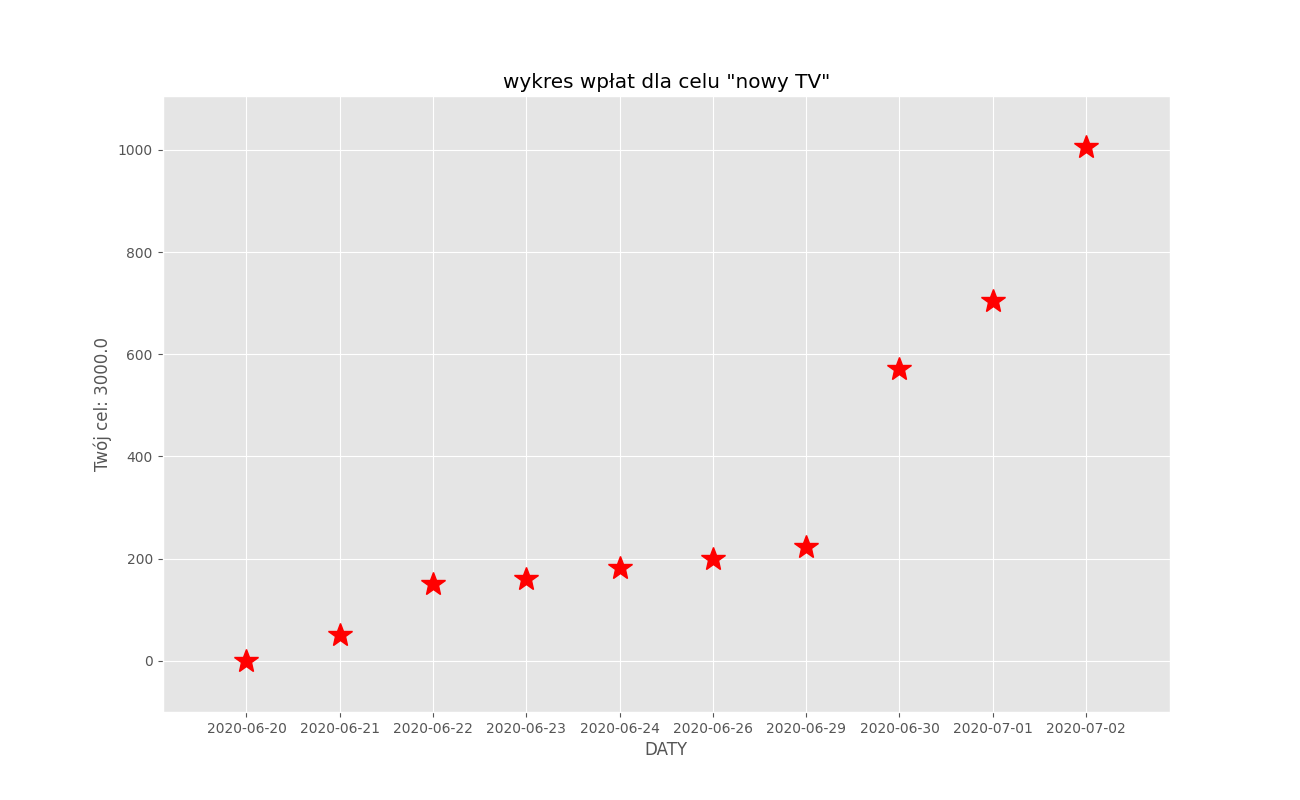
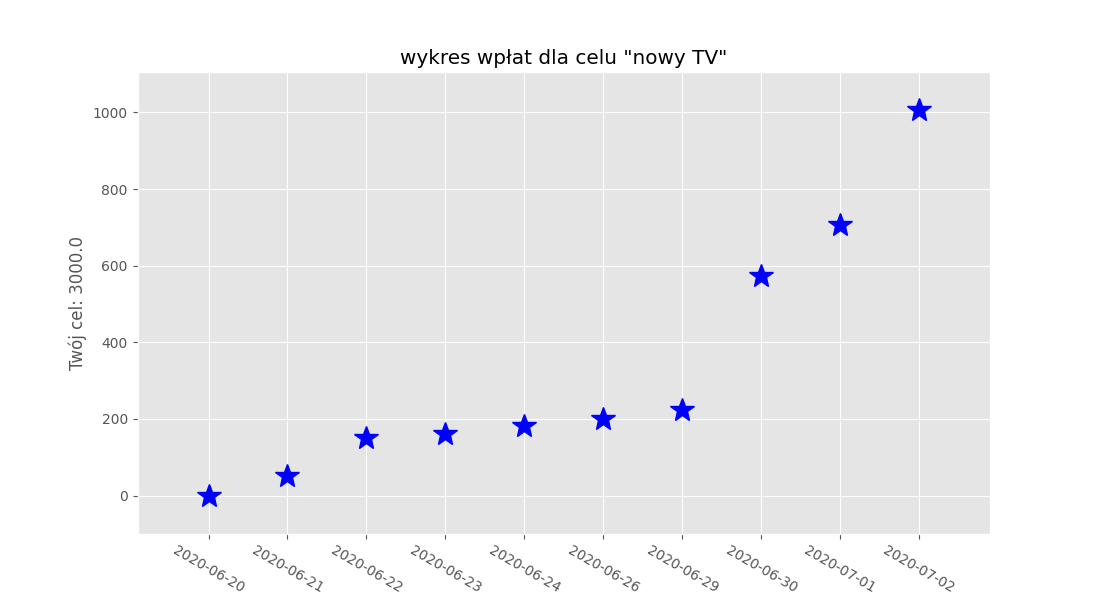
charts

diff --git a/budget_app/templates/charts.html b/budget_app/templates/charts.html
@@ -1,15 +1,24 @@
 {% extends "base.html" %}
-
+{% load static %}
 {% block content %}
+    <br>
+    Wykresy dla dotychczasowych celów:
     <br><br>
-    Wykresy dla dotychczasowych celów: <br><br>
-    <ol>
-        <li><a href="{% url 'chart1' %}">{{ chart_name1 }}</a></li><br>
-        <li><a href="{% url 'chart2' %}">{{ chart_name2 }}</a></li><br>
-        <li><a href="{% url 'chart3' %}">{{ chart_name3 }}</a></li><br>
-        <li><a href="{% url 'chart4' %}">{{ chart_name4 }}</a></li><br>
-        <li><a href="{% url 'chart5' %}">{{ chart_name5 }}</a></li><br>
-        <li><a href="{% url 'chart6' %}">{{ chart_name6 }}</a></li><br>
-        <li><a href="{% url 'chart7' %}">Dotychczasowe cele - wykres wspólny</a></li><br>
-    </ol>
+        <img src="{% static 'wykres-innego-typu.png' %}" alt="Not found" ><br>
+        <br>
+    <img src="{% static 'wykres-inny8.png' %}" alt="Not found" ><br>
+    <br>
+        <img src="{% static 'wykres-inny9.png' %}" alt="Not found" ><br>
+    <br>
+    <img src="{% static 'wykres-inny10.png' %}" alt="Not found" ><br>
+    <br>
+        <img src="{% static 'wykres-inny15.png' %}" alt="Not found" ><br>
+    <br>
+    <img src="{% static 'wykres-inny16.png' %}" alt="Not found" ><br>
+    <br>
+        <img src="{% static 'wykres-inny24.png' %}" alt="Not found" ><br>
+    <br>
+
+
+
 {% endblock %}

diff --git a/budget_app/templates/stock.html b/budget_app/templates/stock.html
@@ -41,11 +41,6 @@
     Twoje <span class="underline">aktualne</span> akcje PZU: {% if value_of_pzu %}{{ value_of_pzu }}
                                 {% else %}Odśwież stronę{% endif %}<br>
     <br>
-     <span class="underline">Obecna</span> cena za akcję BDX: {% if bdx_kurs2 %}{{ bdx_kurs2 }}
-                                {% else %}Odśwież stronę{% endif %}<br>
-    Twoje <span class="underline">aktualne</span> akcje BDX: {% if value_of_bdx %}{{ value_of_bdx }}
-                                {% else %}Odśwież stronę{% endif %}<br>
-    <br>
 
     Szczegóły dotyczące firm -><br>
     {% for elem in ctx %}

diff --git a/budget_app/views.py b/budget_app/views.py
@@ -49,14 +49,15 @@ def wykres8():
         new_date = str(el.date_of)
         x.append(new_date)
     plt.figure(2)
-    plt.figure(figsize=(12, 7))
+    plt.figure(figsize=(11, 6))
     plt.style.use('ggplot')
     plt.title(f'wykres wpłat dla celu "{obj_name}"')
     plt.xlabel('DATY')
     plt.ylabel(f'Twój cel: {max_y}')
     plt.grid(True)
     plt.margins(0.1)
-    plt.plot(x, y, 'r*', markersize=18) # gwiazdka
+    plt.tick_params(axis='x', rotation=330)
+    plt.plot(x, y, 'b*', markersize=18) # gwiazdka
     savefig('static/wykres-inny8.png')
 
 
@@ -73,7 +74,7 @@ def wykres9():
         new_date = str(el.date_of)
         x9.append(new_date)
     plt.figure(3)
-    plt.figure(figsize=(12, 7))
+    plt.figure(figsize=(11, 6))
     plt.title(f'wykres wpłat dla celu "{obj9_name}"')
     plt.xlabel('DATY')
     plt.ylabel(f'Twój cel: {max_y9}')
@@ -95,13 +96,13 @@ def wykres10():
         new_date = str(el.date_of)
         x10.append(new_date)
     plt.figure(4)
-    plt.figure(figsize=(12, 7))
+    plt.figure(figsize=(11, 6))
     plt.title(f'wykres wpłat dla celu "{obj10_name}"')
     plt.xlabel('DATY')
     plt.ylabel(f'Twój cel: {max_y10}')
     plt.grid(True)
     plt.margins(0.1)
-    plt.plot(x10, y10, 'r--',  linewidth=2.5)
+    plt.plot(x10, y10, 'g--',  linewidth=2.5)
     savefig('static/wykres-inny10.png')
 
 
@@ -118,7 +119,7 @@ def wykres15():
         new_date = str(el.date_of)
         x15.append(new_date)
     plt.figure(5)
-    plt.figure(figsize=(12, 7))
+    plt.figure(figsize=(11, 6))
     plt.title(f'wykres wpłat dla celu "{obj15_name}"')
     plt.xlabel(f'Twój cel: {max_y15}')
     plt.ylabel('DATY')
@@ -141,13 +142,13 @@ def wykres16():
         new_date = str(el.date_of)
         x16.append(new_date)
     plt.figure(6)
-    plt.figure(figsize=(12, 7))
+    plt.figure(figsize=(11, 6))
     plt.title(f'wykres wpłat dla celu "{obj16_name}"')
     plt.xlabel('DATY')
     plt.ylabel(f'Twój cel: {max_y16}')
     plt.grid(True)
     plt.margins(0.1)
-    plt.plot(x16, y16, 'go', markersize=18)
+    plt.plot(x16, y16, 'y>', markersize=18)
     savefig('static/wykres-inny16.png')
 
 
@@ -164,7 +165,7 @@ def wykres24():
         new_date = str(el.date_of)
         x24.append(new_date)
     plt.figure(7)
-    plt.figure(figsize=(12, 7))
+    plt.figure(figsize=(11, 6))
     plt.title(f'wykres wpłat dla celu "{obj24_name}"')
     plt.xlabel('DATY')
     plt.ylabel(f'Twój cel: {max_y24}')
@@ -673,51 +674,17 @@ class SavingCharts(View):
 
     def get(self, request):
         s2 = PiggyBanks.objects.values_list('money_for', flat=True).order_by('pk')
-        chart_name1 = s2[0]
-        chart_name2 = s2[1]
-        chart_name3 = s2[2]
-        chart_name4 = s2[3]
-        chart_name5 = s2[4]
-        chart_name6 = s2[5]
-        return render(request, 'charts.html', {"chart_name1":chart_name1, "chart_name2":chart_name2,
-                                               "chart_name3":chart_name3, "chart_name4":chart_name4,
-                                               "chart_name5":chart_name5, "chart_name6":chart_name6})
-
-
-class ChartSaving1(View):
-    def get(self, request):
-        wykres8()
-        return render(request, 'chart1.html')
-
-class ChartSaving2(View):
-    def get(self, request):
-        wykres9()
-        return render(request, 'chart2.html')
-
-class ChartSaving3(View):
-    def get(self, request):
-        wykres10()
-        return render(request, 'chart3.html')
-
-class ChartSaving4(View):
-    def get(self, request):
-        wykres15()
-        return render(request, 'chart4.html')
-
-class ChartSaving5(View):
-    def get(self, request):
-        wykres16()
-        return render(request, 'chart5.html')
-
-class ChartSaving6(View):
-    def get(self, request):
-        wykres24()
-        return render(request, 'chart6.html')
-
-class ChartSaving7(View):
-    def get(self, request):
-        wykres_innego_typu()
-        return render(request, 'chart7.html')
+        try:
+            wykres8()
+            wykres9()
+            wykres10()
+            wykres15()
+            wykres16()
+            wykres24()
+            wykres_innego_typu()
+            return render(request, 'charts.html')
+        except Exception:
+            return render(request, 'charts.html')
 
 
 class ModifySaving(View):
@@ -862,20 +829,14 @@ class StockView(View):
         p = {"s": spolka}
         spolka2 = "pzu"
         p2 = {"s": spolka2}
-        spolka3 = "bdx"
-        p3 = {"s": spolka3}
         answer = requests.get("http://stooq.pl/q/", params=p)
         soup = BeautifulSoup(answer.text, 'html.parser')
         answer2 = requests.get("http://stooq.pl/q/", params=p2)
         soup2 = BeautifulSoup(answer2.text, 'html.parser')
-        answer3 = requests.get("http://stooq.pl/q/", params=p3)
-        soup3 = BeautifulSoup(answer3.text, 'html.parser')
         cdr_kurs = soup.find("span", id=f"aq_{spolka}_c1")
         cdr_kurs2 = float(cdr_kurs.text)
         pzu_kurs = soup2.find("span", id=f"aq_{spolka2}_c2")
         pzu_kurs2 = float(pzu_kurs.text)
-        bdx_kurs = soup3.find("span", id=f"aq_{spolka3}_c2")
-        bdx_kurs2 = float(bdx_kurs.text)
         # niekiedy zmienia się id - uwaga!
 
         if cdr_kurs2:
@@ -886,18 +847,12 @@ class StockView(View):
             pzu_interests = Stock.objects.get(name='PZU')
             jednostki_pzu = pzu_interests.interests
             value_of_pzu = jednostki_pzu * pzu_kurs2
-        if bdx_kurs2:
-            bdx_interests = Stock.objects.get(name='Budimex')
-            jednostki_bdx = bdx_interests.interests
-            value_of_bdx = jednostki_bdx * bdx_kurs2
 
         return render(request, 'stock.html', {"cdr_kurs2":cdr_kurs2,
                                               "pzu_kurs2":pzu_kurs2,
                                               "value_of_cdr":value_of_cdr,
                                               "value_of_pzu":value_of_pzu,
-                                              "value_of_bdx":value_of_bdx,
                                               "ctx":ctx, "form":form,
-                                              "bdx_kurs2":bdx_kurs2
                                               })
 
     def post(self, request):
@@ -1069,6 +1024,7 @@ class CreditMistake(View):
 
 
 class StockViewWithoutScraper(View):
+
     def get(self, request):
         form = StockForm()
         ctx = Stock.objects.all()

diff --git a/budget/urls.py b/budget/urls.py
@@ -61,12 +61,4 @@ urlpatterns = [
     path('modify-credit/<int:id>/', ModifyCredit.as_view(), name='modify-credit'),
     path('delete-credit/<int:pk>/', DeleteCredit.as_view(), name='delete-credit'),
 
-    path('chart1/', ChartSaving1.as_view(), name='chart1'),
-    path('chart2/', ChartSaving2.as_view(), name='chart2'),
-    path('chart3/', ChartSaving3.as_view(), name='chart3'),
-    path('chart4/', ChartSaving4.as_view(), name='chart4'),
-    path('chart5/', ChartSaving5.as_view(), name='chart5'),
-    path('chart6/', ChartSaving6.as_view(), name='chart6'),
-    path('chart7/', ChartSaving7.as_view(), name='chart7'),
-
 ]
